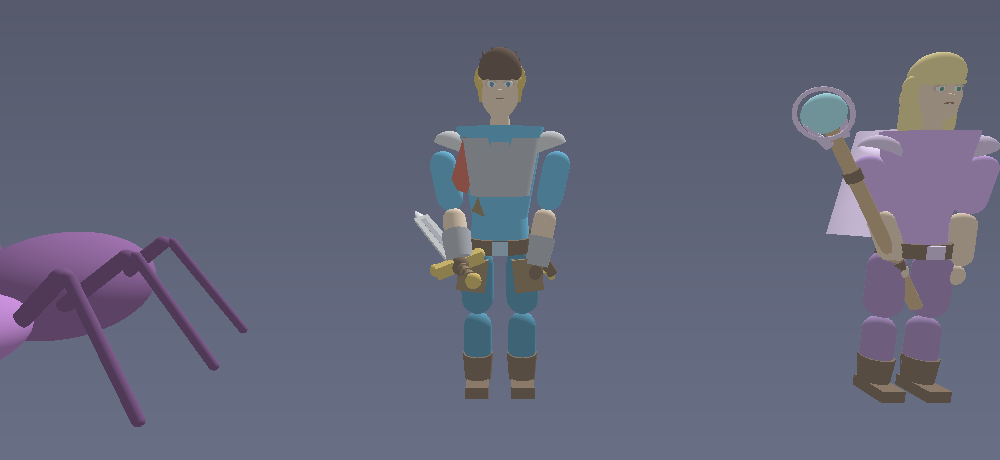
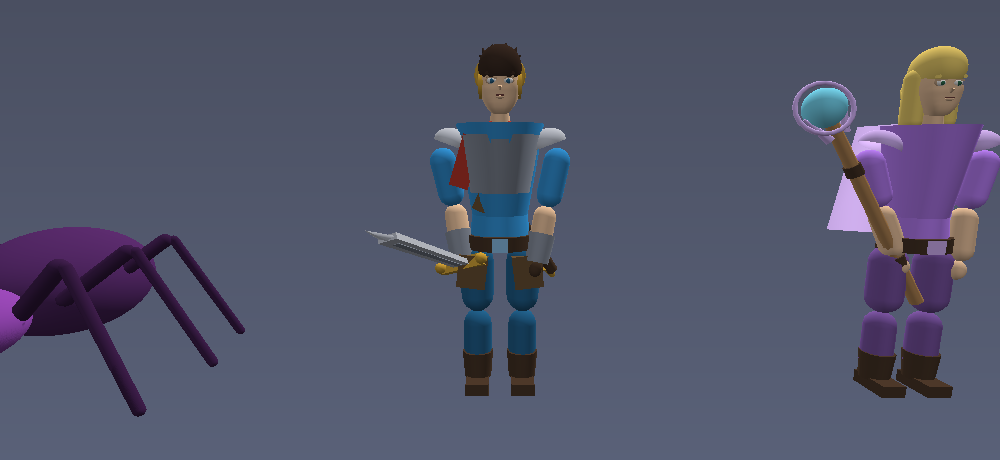
Меч вперёд, тени на лице, тона и переходы
Меч смотрел за спину: наклон кисти -0.55 заваливал клинок назад, остриё
уходило на z=-0.78 при рукояти z=+0.52. Теперь боевая стойка — остриё
вверх-вперёд к врагу (вектор рукоять->остриё z=+1.26). Плечо и локоть
опущены, чтобы замаху было куда подниматься.

Тени на лице. В превью был один источник и плоское затенение по нормали.
Добавлены: теневой проход с картой глубины со стороны рисующего света
(1400x1400, PCF 3x3) — брови, нос и причёска теперь отбрасывают тень на
лицо; трёхточечная схема (рисующий, заполняющий, контровой); мягкий
переход света в тень (wrap lighting) вместо резкой границы.

Запечённое в вершины затенение складок (AO) в head_mesh.js: для каждой
вершины считается, насколько соседи нависают над ней. Даёт тень в
глазницах, под бровью, под носом и под челюстью.

Цвета были вымыты из-за двойной гаммы: sRGB-значения материалов
использовались как линейные, а на выходе ещё раз применялось 1/2.2.
Кожа выглядела серой. Теперь материалы переводятся в линейное
пространство перед освещением.

В самой игре (src/main.js) было два источника без тональной компрессии.
Добавлены заполняющий и контровой свет, холодное небо и тёплый отсвет
от земли, PCF-тени 2048 с мягкими краями и ACES-тонмаппинг.

Changed region(s): [[0.775, 0.0913, 1.0, 0.8826], [0.372, 0.0913, 0.589, 0.8826], [0.0, 0.487, 0.248, 0.9435]]

diff --git a/src/main.js b/src/main.js
@@ -45,17 +45,47 @@ function createScene() {
     battleCamera = new BattleCamera(camera);
     battleSystem.camera = battleCamera;
 
+    // Трёхточечная схема. Раньше были только «полусфера + один направленный источник»,
+    // из-за чего модели выглядели плоско: не было ни полутонов, ни
+    // контрового света, отделяющего фигуру от фона.
     const ambientLight = new HemisphericLight("ambientLight", new Vector3(0, 1, 0), scene);
-    ambientLight.intensity = 0.4;
-    ambientLight.groundColor = new Color3(0.1, 0.1, 0.1);
+    ambientLight.intensity = 0.45;
+    ambientLight.diffuse = new Color3(0.78, 0.84, 1.0);      // небо холодное
+    ambientLight.groundColor = new Color3(0.22, 0.19, 0.16); // отражение от земли тёплое
 
-    const dirLight = new DirectionalLight("dirLight", new Vector3(-1, -2, -1), scene);
-    dirLight.position = new Vector3(20, 40, 20);
-    dirLight.intensity = 0.8;
+    const dirLight = new DirectionalLight("dirLight", new Vector3(-0.55, -1.15, 0.85), scene);
+    dirLight.position = new Vector3(14, 26, -18);
+    dirLight.intensity = 1.15;
+    dirLight.diffuse = new Color3(1.0, 0.96, 0.88);          // рисующий — тёплый
 
-    const shadowGenerator = new ShadowGenerator(1024, dirLight);
-    shadowGenerator.useBlurExponentialShadowMap = true;
-    shadowGenerator.blurKernel = 32;
+    // Заполняющий: подсвечивает теневую сторону, чтобы она не проваливалась
+    // в чёрное, и даёт мягкий переход между планами лица.
+    const fillLight = new DirectionalLight("fillLight", new Vector3(0.8, -0.25, 0.6), scene);
+    fillLight.intensity = 0.32;
+    fillLight.diffuse = new Color3(0.62, 0.72, 0.95);
+    fillLight.specular = new Color3(0, 0, 0);
+
+    // Контровой сзади — тонкая светлая кромка по силуэту.
+    const rimLight = new DirectionalLight("rimLight", new Vector3(0.1, -0.4, -1), scene);
+    rimLight.intensity = 0.5;
+    rimLight.diffuse = new Color3(0.75, 0.85, 1.0);
+
+    const shadowGenerator = new ShadowGenerator(2048, dirLight);
+    shadowGenerator.usePercentageCloserFiltering = true;
+    shadowGenerator.filteringQuality = ShadowGenerator.QUALITY_HIGH;
+    shadowGenerator.bias = 0.0018;
+    shadowGenerator.normalBias = 0.012;
+    shadowGenerator.darkness = 0.32;
+    // Тени от мелких деталей (брови, нос, пряди) нужны вблизи.
+    dirLight.shadowMinZ = 8;
+    dirLight.shadowMaxZ = 70;
+
+    // Тональная компрессия: без неё света уходили в чистый белый, а
+    // цвета выглядели вымытыми.
+    scene.imageProcessingConfiguration.toneMappingEnabled = true;
+    scene.imageProcessingConfiguration.toneMappingType = 1; // ACES
+    scene.imageProcessingConfiguration.contrast = 1.35;
+    scene.imageProcessingConfiguration.exposure = 1.05;
 
     const arenaMat = new StandardMaterial("arenaMat", scene);
     arenaMat.diffuseColor = new Color3(0.24, 0.29, 0.36);

diff --git a/src/render/head_mesh.js b/src/render/head_mesh.js
@@ -153,5 +153,58 @@ export function createHeadMesh(scene, name) {
     data.normals = normals;
     data.applyToMesh(mesh);
 
+    // Затенение складок (ambient occlusion), запечённое в вершины: без него
+    // лицо оставалось «плоским» — не было тени под бровями, носом и
+    // подбородком, а переходы между планами не читались.
+    mesh.setVerticesData('ao', computeAmbientOcclusion(positions, normals), false, 1);
+
     return mesh;
+}
+
+/**
+ * Мягкое затенение впадин. Для каждой вершины смотрим, насколько соседи
+ * «нависают» над ней: чем больше точек лежит перед её плоскостью, тем
+ * глубже вершина сидит и тем темнее должна быть.
+ *
+ * Это грубая, но дешёвая замена трассировке: считается один раз при сборке
+ * модели и даёт тени в глазницах, под бровью, под носом и под челюстью.
+ */
+function computeAmbientOcclusion(positions, normals) {
+    const count = positions.length / 3;
+    const ao = new Float32Array(count);
+    const RADIUS = 0.17;
+
+    for (let i = 0; i < count; i += 1) {
+        const px = positions[i * 3];
+        const py = positions[i * 3 + 1];
+        const pz = positions[i * 3 + 2];
+        const nx = normals[i * 3];
+        const ny = normals[i * 3 + 1];
+        const nz = normals[i * 3 + 2];
+
+        let occlusion = 0;
+        let samples = 0;
+
+        for (let j = 0; j < count; j += 1) {
+            if (j === i) continue;
+            const dx = positions[j * 3] - px;
+            const dy = positions[j * 3 + 1] - py;
+            const dz = positions[j * 3 + 2] - pz;
+
+            const distanceSq = dx * dx + dy * dy + dz * dz;
+            if (distanceSq > RADIUS * RADIUS || distanceSq < 1e-8) continue;
+
+            const distance = Math.sqrt(distanceSq);
+            // Насколько сосед находится «над» поверхностью в этой точке.
+            const above = (dx * nx + dy * ny + dz * nz) / distance;
+            if (above > 0.12) occlusion += (above - 0.12) * (1 - distance / RADIUS);
+            samples += 1;
+        }
+
+        const raw = samples > 0 ? occlusion / Math.sqrt(samples) : 0;
+        // 1 — открытая поверхность, ~0.55 — глубокая складка.
+        ao[i] = Math.max(0.55, 1 - raw * 1.6);
+    }
+
+    return ao;
 }

diff --git a/src/render/models.js b/src/render/models.js
@@ -709,11 +709,12 @@ export function createHumanoid(scene, { id, color = '#3498db', weapon = 'sword',
     elbowL.rotation.x = -0.22;
 
     if (weapon === 'sword') {
-        // Меч уводим остриём вверх-вбок: клинок читается, а не режет ногу.
-        shoulderR.rotation.x = -0.1;
-        elbowR.rotation.x = -0.62;
-        weaponPivot.rotation.x = -0.55;
-        weaponPivot.rotation.z = -0.35;
+        // Меч держим остриём ВВЕРХ-ВПЕРЁД. Прежний наклон (-0.55) заваливал
+        // клинок за спину: остриё уходило на z=-0.78 при рукояти z=+0.52.
+        shoulderR.rotation.x = 0.18;
+        elbowR.rotation.x = -0.5;
+        weaponPivot.rotation.x = 1.45;
+        weaponPivot.rotation.z = -0.25;
     } else {
         // Посох стоит вертикально в опущенной руке, орб над плечом.
         elbowR.rotation.x = -0.16;
